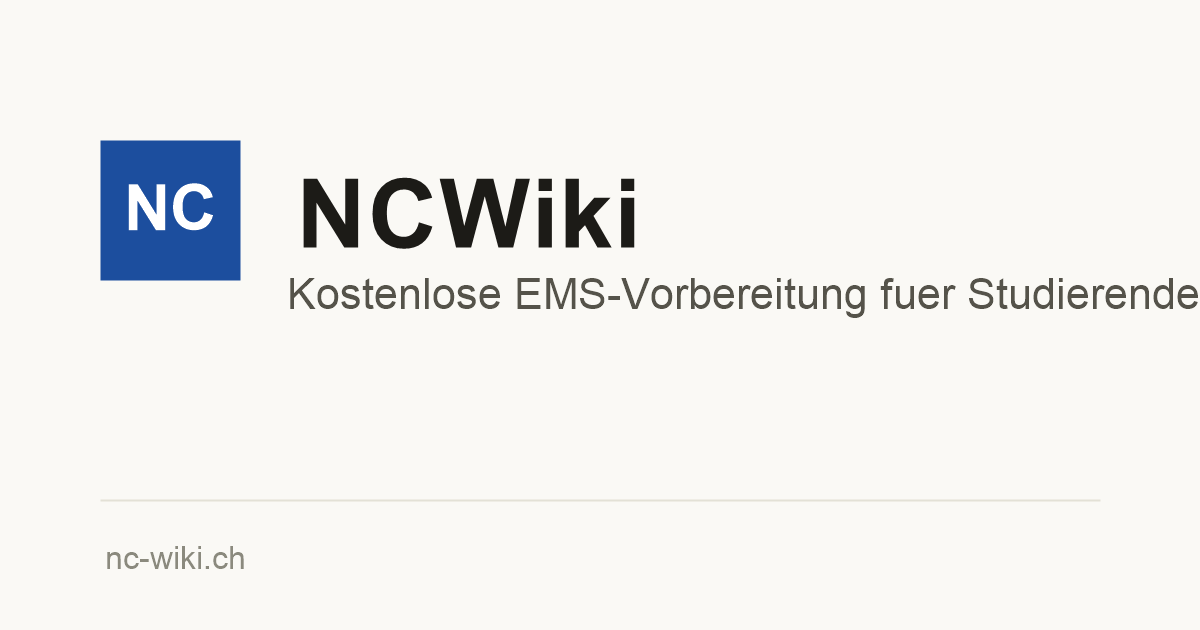
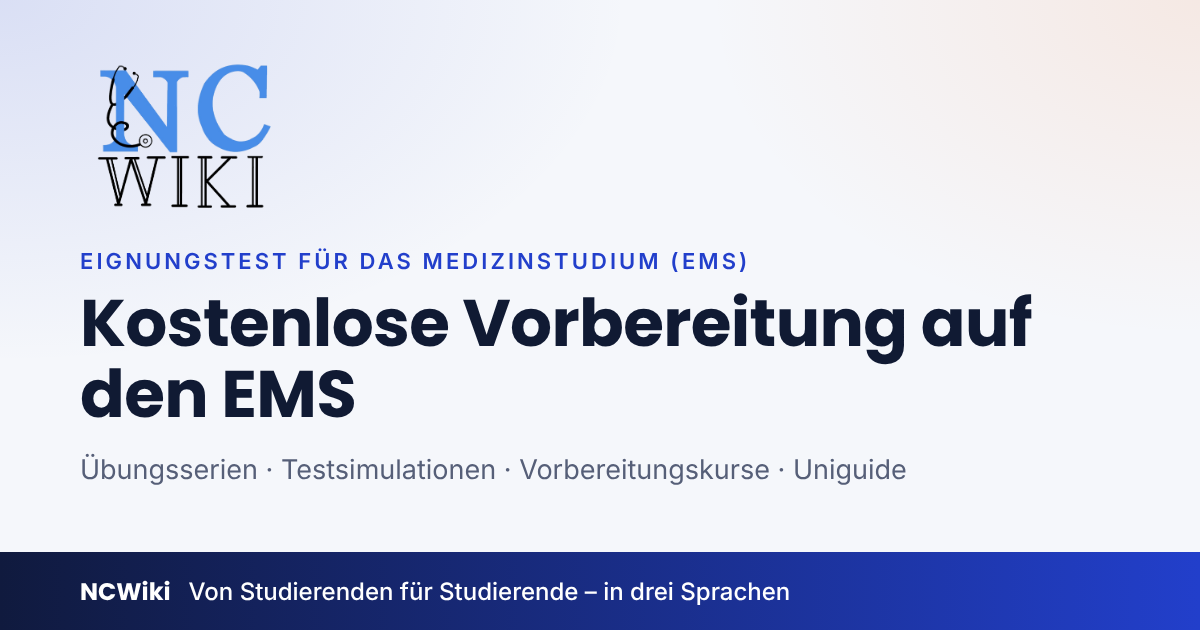
Vorschaubild beim Teilen je Sprache; Slogan FR «à l'AMS»
Das Bild, das Messenger und soziale Medien beim Teilen eines Links zeigen
(og:image), hatte «fuer» statt «für», rechts abgeschnittenen Text, ein
generisches «NC»-Kästchen statt des Logos und erschien auch auf FR/IT
deutsch mit «EMS». Neu je Sprache ein Bild im Stil der Website (Logo,
Titel der Startseite, Angebot, Testname EMS bzw. AMS); og-default.png ist
die deutsche Fassung.

Dabei gefunden: Slogan FR «Préparation gratuite au AMS» -> «à l'AMS».

Claude-Session: https://claude.ai/code/session_01NzYAmHRH1jdaugnAH8kJ7c

diff --git a/layouts/partials/head.html b/layouts/partials/head.html
@@ -145,7 +145,13 @@
 <meta name="description" content="{{ $ogDescription }}">
 {{- $ogImage := "" }}
 {{- with .Params.image }}{{ $ogImage = . | absURL }}{{ end }}
-{{- if not $ogImage }}{{ $ogImage = "images/og-default.png" | absURL }}{{ end }}
+{{- /* Vorschaubild ohne eigenes "image:" im Seitenkopf: je Sprache eines
+       (static/images/og-de.png usw., Titel und Testname in der Sprache der
+       Seite), sonst das allgemeine og-default.png. */ -}}
+{{- if not $ogImage }}
+{{- $sprachBild := printf "images/og-%s.png" .Site.Language.Lang }}
+{{- $ogImage = cond (fileExists (printf "static/%s" $sprachBild)) $sprachBild "images/og-default.png" | absURL }}
+{{- end }}
 <meta property="og:type" content="website">
 <meta property="og:site_name" content="{{ .Site.Title }}">
 <meta property="og:title" content="{{ $ogTitle }}">
